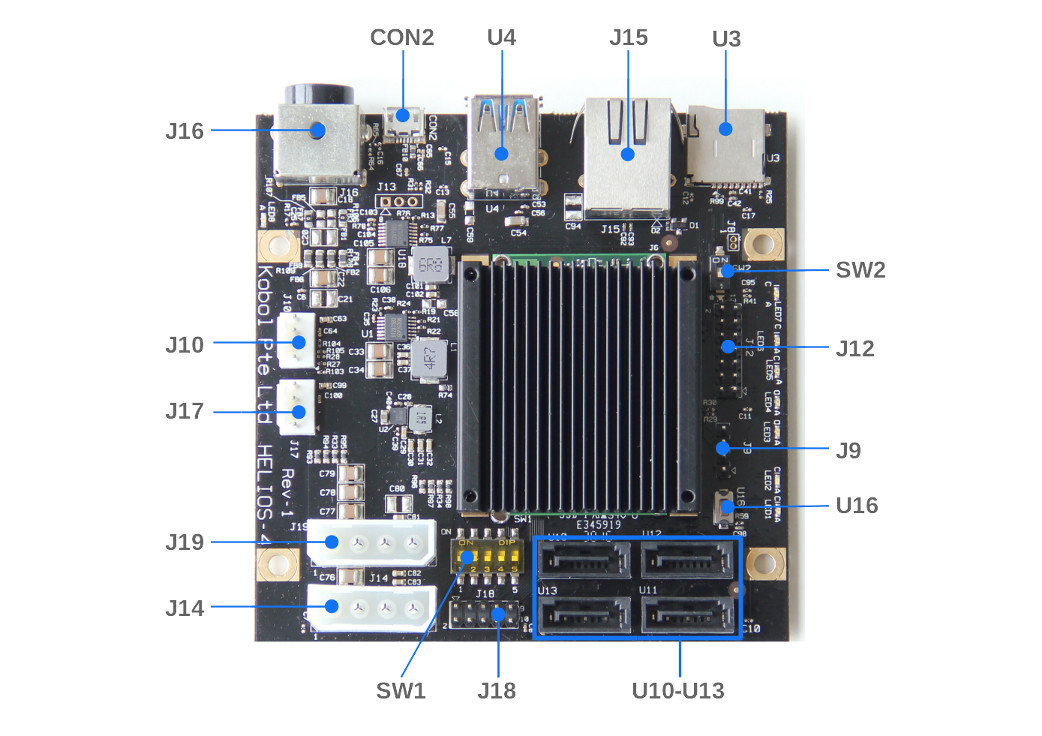
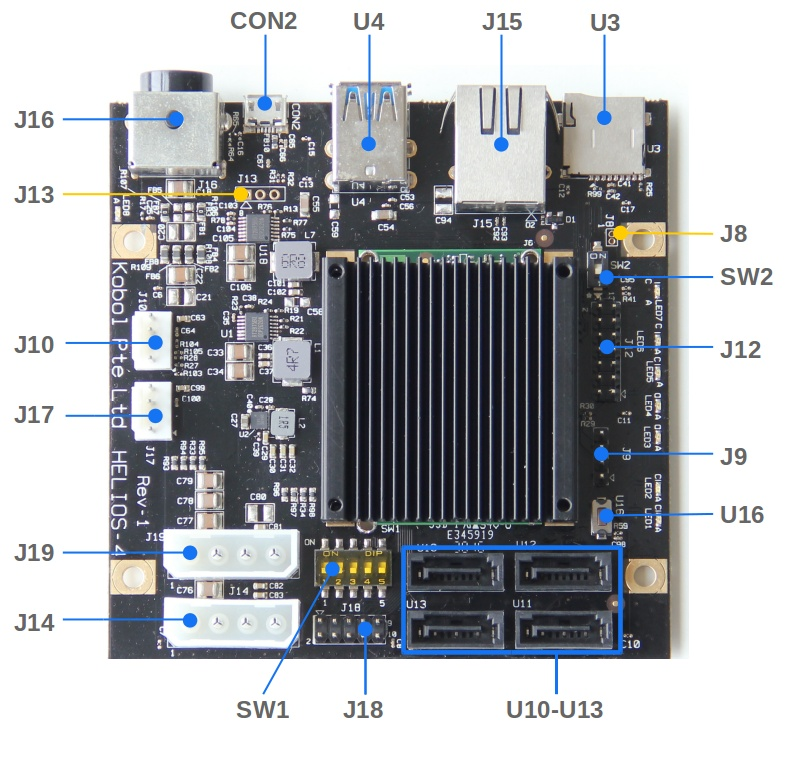
Add new image build release Add info on unpopulated connectors

diff --git a/docs/download.md b/docs/download.md
@@ -2,29 +2,29 @@
 
 ### Debian 9 - Stretch
 
-[![Debian Stretch](/img/os/debian2.png)](https://cdn.kobol.io/files/Helios4_Debian_Stretch_4.14.12.img.xz)<br>
-*Build date : 06/01/2018<br>
-Size : 242 MB<br>
-MD5SUM : a97fef50ecb1c14a6013695f3b2a51b6*<br>
-[Download](https://cdn.kobol.io/files/Helios4_Debian_Stretch_4.14.12.img.xz)
+[![Debian Stretch](/img/os/debian2.png)](https://cdn.kobol.io/files/Helios4_Debian_Stretch_4.14.17.img.xz)<br>
+*Build date : 05/02/2018<br>
+Size : 230 MB<br>
+MD5SUM : 89ab81d74300ef346498066bcc742b0a*<br>
+[Download](https://cdn.kobol.io/files/Helios4_Debian_Stretch_4.14.17.img.xz)
 
 ### Debian 8 - Jessie
 
-[![Debian Jessie](/img/os/debian2.png)](https://cdn.kobol.io/files/Helios4_Debian_Jessie_4.4.110.img.xz)<br>
-*Build date : 06/01/2018<br>
-Size : 210 MB<br>
-MD5SUM : 4512a1c283fb3e075f390e8d7b6415ab*<br>
-[Download](https://cdn.kobol.io/files/Helios4_Debian_Jessie_4.4.110.img.xz)
+[![Debian Jessie](/img/os/debian2.png)](https://cdn.kobol.io/files/Helios4_Debian_Jessie_4.4.112.img.xz)<br>
+*Build date : 05/02/2018<br>
+Size : 202 MB<br>
+MD5SUM : dd6f5ea6e9ac80e4f379d619b71ef1e8*<br>
+[Download](https://cdn.kobol.io/files/Helios4_Debian_Jessie_4.4.112.img.xz)
 
 ### OpenMediaVault - OMV3
 
-[![OMV](/img/os/omv.png)](https://cdn.kobol.io/files/Helios4_Debian_Jessie_4.4.110-OMV_3.0.96.img.xz)<br>
-*Build date : 06/01/2018<br>
-Size : 272 MB<br>
-MD5SUM : 250fa48a6fbb92eef31152d0d6783077*<br>
-[Download](https://cdn.kobol.io/files/Helios4_Debian_Jessie_4.4.110-OMV_3.0.96.img.xz)
+[![OMV](/img/os/omv.png)](https://cdn.kobol.io/files/Helios4_Debian_Jessie_4.4.112-OMV_3.0.96.img.xz)<br>
+*Build date : 05/02/2018<br>
+Size : 275 MB<br>
+MD5SUM : 45425c2a16f8f3014275046b22010f82*<br>
+[Download](https://cdn.kobol.io/files/Helios4_Debian_Jessie_4.4.112-OMV_3.0.96.img.xz)
 
-### OpenMediaVault - OMV4
+### OpenMediaVault - OMV4 (Beta)
 
 *coming soon*
 
@@ -32,7 +32,7 @@ MD5SUM : 250fa48a6fbb92eef31152d0d6783077*<br>
 
 *coming soon*
 
-## Know Issues
+## Know Issues (05/02/2018)
 
 ### All Kernels
 
@@ -44,15 +44,9 @@ MD5SUM : 250fa48a6fbb92eef31152d0d6783077*<br>
 
     **Temporary workaround :** Disable SPI NOR flash.
 
-### Legacy Kernel (4.4)
-
-- PWM-FAN driver not working.
-
-    **Temporary workaround :** Use GPIO-FAN driver, only 2 speeds supported (low or full speed).
-
 ### Legacy Kernel (4.14)
 
-- DVFS doesn't use correct CPU freq range (666 - 1332Mhz instead of 800-1600MHz).
+- DVFS doesn't report correct CPU freq range (666 - 1332Mhz instead of 800-1600MHz).
 
 
 ## Image List
@@ -61,15 +55,16 @@ MD5SUM : 250fa48a6fbb92eef31152d0d6783077*<br>
 
 Filename | Download | MD5
 ---------|----------|----
+**Helios4_Debian_Stretch_4.14.17.img.xz**<br>Debian 9 Stretch (Kernel 4.14.17)<br>Build date : 05/02/2018<br>Size :230 MB|[Download](https://cdn.kobol.io/files/Helios4_Debian_Stretch_4.14.17.img.xz)|89ab81d74300ef346498066bcc742b0a
 **Helios4_Debian_Stretch_4.14.12.img.xz**<br>Debian 9 Stretch (Kernel 4.14.12)<br>Build date : 06/01/2018<br>Size :242 MB|[Download](https://cdn.kobol.io/files/Helios4_Debian_Stretch_4.14.12.img.xz)|a97fef50ecb1c14a6013695f3b2a51b6
 
 ### Based on Debian 8 - Jessie
 
 Filename | Download | MD5
 ---------|----------|----
+**Helios4_Debian_Jessie_4.4.112.img.xz**<br>Debian 8 Jessie (Kernel 4.4.112)<br>Build date : 05/02/2018<br>Size : 202 MB|[Download](https://cdn.kobol.io/files/Helios4_Debian_Jessie_4.4.112.img.xz)|dd6f5ea6e9ac80e4f379d619b71ef1e8
+**Helios4_Debian_Jessie_4.4.112-OMV_3.0.96.img.xz**<br>Debian 8 Jessie (Kernel 4.4.112) with OMV 3.0.96<br>Build date : 05/02/2018<br>Size : 275 MB|[Download](https://cdn.kobol.io/files/Helios4_Debian_Jessie_4.4.112-OMV_3.0.96.img.xz)|45425c2a16f8f3014275046b22010f82
 **Helios4_Debian_Jessie_4.4.110.img.xz**<br>Debian 8 Jessie (Kernel 4.4.110)<br>Build date : 06/01/2018<br>Size : 210 MB|[Download](https://cdn.kobol.io/files/Helios4_Debian_Jessie_4.4.110.img.xz)|4512a1c283fb3e075f390e8d7b6415ab
 **Helios4_Debian_Jessie_4.4.110-OMV_3.0.96.img.xz**<br>Debian 8 Jessie (Kernel 4.4.110) with OMV 3.0.96<br>Build date : 06/01/2018<br>Size : 272 MB|[Download](https://cdn.kobol.io/files/Helios4_Debian_Jessie_4.4.110-OMV_3.0.96.img.xz)|250fa48a6fbb92eef31152d0d6783077
 **Helios4_Debian_Jessie_4.4.107.img.xz**<br>Debian 8 Jessie (Kernel 4.4.107)<br>Build date : 30/12/2017<br>Size : 210 MB|[Download](https://cdn.kobol.io/files/Helios4_Debian_Jessie_4.4.107.img.xz)|afd9606b39ae3eb149f78413db89f80b
 **Helios4_Debian_Jessie_4.4.107-OMV_3.0.95.img.xz**<br>Debian 8 Jessie (Kernel 4.4.107) with OMV 3.0.95<br>Build date : 30/12/2017<br>Size : 272 MB|[Download](https://cdn.kobol.io/files/Helios4_Debian_Jessie_4.4.107-OMV_3.0.95.img.xz)|4d193617b2ee27aaf48f7cdfbb0d0ba7
-**Helios4_Debian_Jessie_4.4.106.img.xz**<br>Debian 8 Jessie (Kernel 4.4.106)<br>Build date : 18/12/2017<br>Size : 184 MB|[Download](https://cdn.kobol.io/files/Helios4_Debian_Jessie_4.4.106.img.xz)|1ec6f992077b821f7078af496dae02a7
-**Helios4_Debian_Jessie_4.4.106-OMV_3.0.94.img.xz**<br>Debian 8 Jessie (Kernel 4.4.106) with OMV 3.0.94<br>Build date : 18/12/2017<br>Size : 261 MB|[Download](https://cdn.kobol.io/files/Helios4_Debian_Jessie_4.4.106-OMV_3.0.94.img.xz)|6d2e3cea12c2e4091de6cfac24daa9fc

diff --git a/docs/hardware.md b/docs/hardware.md
@@ -8,10 +8,12 @@
 
 Name |Peripheral Type|Connector Type|Details
 -----|---------------|--------------|-------
-CON2|UART / Console port|Micro-USB Connector|Via on-board USB to UART Converter
+CON2|Serial port|Micro-USB Connector|Via onboard FTDI USB-to-UART0 bridge
+*J8*|*RC Battery*|*Not populated*|*External battery source for RTC clock*
 J9|I2C|4x1 Pin Male Header|I2C Channel 1
 J10|Fan|4x1 Pin Male Header|PWM and RPM support
 J12|GPIO|7x2 Pin Male Header|GPIO configurable as input or output<br>Via IO Expander on I2C Channel 0
+*J13*|*Serial port*|*Not populated*|*SoM UART0 interface*
 J14|HDD Power|Molex 4-Pin Female|Rated for 2x HDD
 J15|LAN|RJ45|Gigabit Ethernet
 J16|DC connector|Kycon 4-Pin Mini-DIN|DC input 12V / 8A
